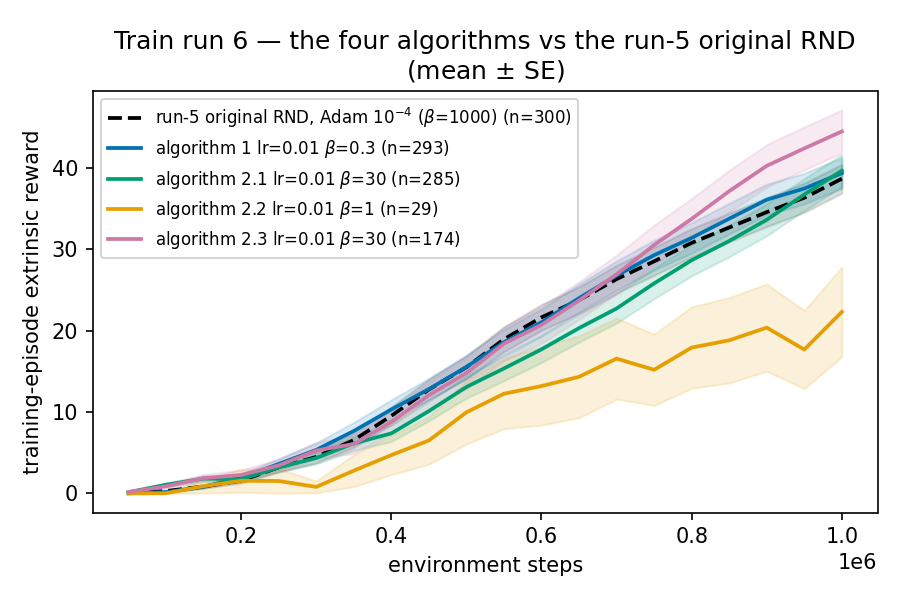
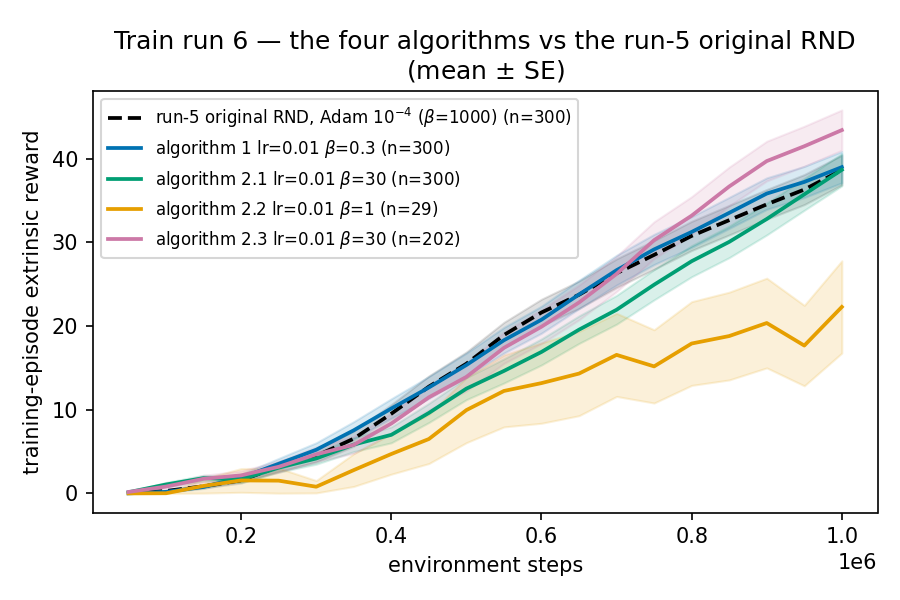
run 6: FINAL 1M sweep results — SWEEP_COMPLETE, 5,922 done + 30,078 pruned = 36,000, 0 failed; alg2.3 (lr 0.01) tops the bar at 43.41 (b30, n=202) / winner b10 42.58 at n=300; 4M block rows appear as placeholders
Claude-Session: https://claude.ai/code/session_01YasBSWoqioP3w5PF9K32Fq

diff --git a/07_reconstruction/train_runs/2026-08-08-02-00_run_6_pointmaze-large-topright__alg1-sgd-l2-biasnormal0.5__alg2.1-ratio__alg2.2-normloss__alg2.3-layernorm__lr-1e-3-1e-2_beta-1e-3-to-1e4-x15_1Mstep_seed1200-1499_prune20-race100-winner300_bar-run5-origrnd_cpu-nolim-resv/analysis/plots/reward_table.tex b/07_reconstruction/train_runs/2026-08-08-02-00_run_6_pointmaze-large-topright__alg1-sgd-l2-biasnormal0.5__alg2.1-ratio__alg2.2-normloss__alg2.3-layernorm__lr-1e-3-1e-2_beta-1e-3-to-1e4-x15_1Mstep_seed1200-1499_prune20-race100-winner300_bar-run5-origrnd_cpu-nolim-resv/analysis/plots/reward_table.tex
@@ -4,9 +4,13 @@
 \midrule
 run-5 original RND, Adam $10^{-4}$ ($\beta{=}1000$) --- the frozen bar & 38.64 & 1.77 & \underline{0.78} & 300 \\
 \midrule
-algorithm 1 (lr $0.01$, $\beta{=}0.3$) & 39.33 & 1.90 & 0.77 & 293 \\
-algorithm 2.1 (lr $0.01$, $\beta{=}30$) & \underline{39.63} & 1.97 & 0.76 & 285 \\
+algorithm 1 (lr $0.01$, $\beta{=}0.3$) & \underline{38.99} & 1.87 & 0.76 & 300 \\
+algorithm 2.1 (lr $0.01$, $\beta{=}30$) & 38.66 & 1.91 & 0.76 & 300 \\
 algorithm 2.2 (lr $0.01$, $\beta{=}1$) & 22.28 & 5.51 & 0.48 & 29 \\
-algorithm 2.3 (lr $0.01$, $\beta{=}30$) & \textbf{44.45} & 2.64 & \textbf{0.78} & 174 \\
+algorithm 2.3 (lr $0.01$, $\beta{=}30$) & \textbf{43.41} & 2.40 & \textbf{0.78} & 202 \\
+\midrule
+run-5 original RND, 4M steps (Adam $10^{-4}$, $\beta{=}1000$) --- still running & -- & -- & -- & 0 \\
+algorithm 2.3, 4M steps (lr $0.01$, $\beta{=}30$) --- still running & -- & -- & -- & 0 \\
+ground-truth bonus $\min(1,1/\sqrt{n})$, 4M steps ($\beta{=}1$) --- still running & -- & -- & -- & 0 \\
 \bottomrule
 \end{tabular}
